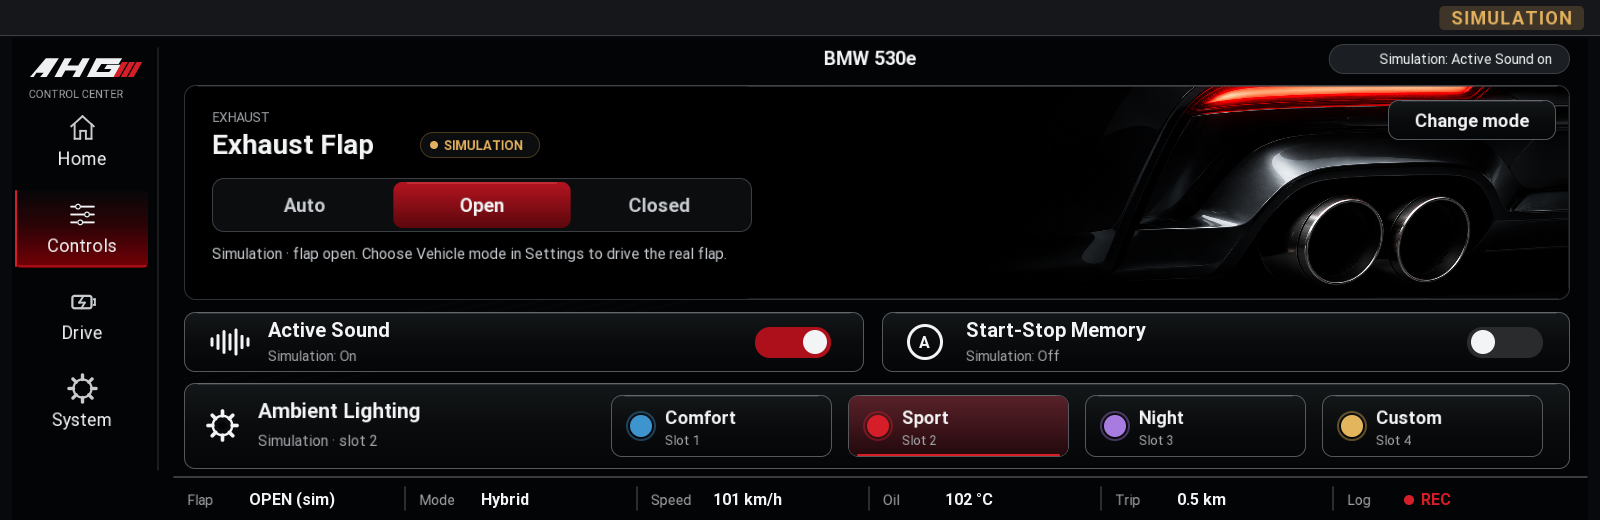
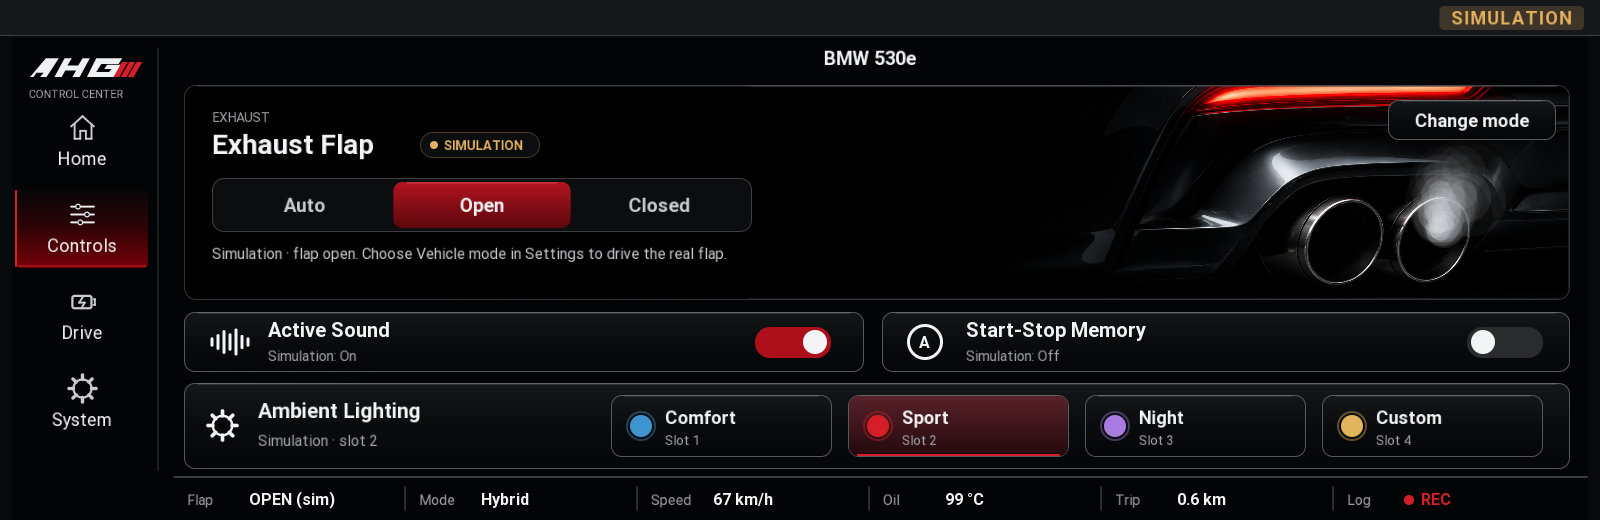
Animated exhaust smoke on the flap hero image
Open = right tailpipe, Closed = left tailpipe, Auto = light wisp from both.
Follows simulated state or the DME read-back on the car; eases between states.

Claude-Session: https://claude.ai/code/session_01Nnadr2wnsB46edB4HiEaQo

diff --git a/apps/ahg_control_center/reference-view.js b/apps/ahg_control_center/reference-view.js
@@ -76,7 +76,26 @@ function chip(cv,label,x,y,color){
 function toggle(cv,x,y,on,enabled){
     cv.roundRect(x,y,76,31,15,!enabled?'#1a1b1d':on?'#ae101b':'#292b2d');cv.circle(on?x+60:x+16,y+15,12,enabled?C.text:'#55595d');
 }
-function controls(cv,a){
+// Exhaust smoke from a tailpipe of the hero photo: puffs that billow out, rise, grow and fade.
+// A function of time only, so every frame moves it on. amt 0..1. Stays inside the hero card.
+function alphaHex(c,al){return c+('0'+Math.round(M.clamp(al,0,1)*255).toString(16)).slice(-2);}
+function rnd(n){const x=Math.sin(n*78.233+12.9898)*43758.5453;return x-Math.floor(x);}
+function smoke(cv,ox,oy,dir,reach,amt,ts,seed){
+    if(amt<0.03)return;
+    const N=18,period=2.8;
+    for(let i=0;i<N;i++){
+        const cyc=ts/period+i/N+seed,p=((cyc%1)+1)%1,k=Math.floor(cyc)*31+i; // k: a new random path every cycle
+        const x=ox+dir*(6+p*reach)+(rnd(k)-0.5)*34*p+Math.sin(ts*1.3+i*1.7)*7*p;
+        const y=oy-4+p*8-p*p*80+(rnd(k+7)-0.5)*22*p;
+        const r=7+p*(34+rnd(k+3)*14);
+        const al=amt*0.62*(1-p)*Math.min(1,p*6);
+        if(al<0.01)continue;
+        cv.circle(x,y,r,alphaHex('#c4c9cf',al*0.3));
+        cv.circle(x-r*0.12,y-r*0.1,r*0.7,alphaHex('#d9dde2',al*0.42));
+        cv.circle(x-r*0.2,y-r*0.18,r*0.4,alphaHex('#eff1f4',al*0.5));
+    }
+}
+function controls(cv,a,dt){
     const control=a.controls,sim=control.simulated,flap=control.getState('exhaust'),asd=control.getState('asd'),ss=control.getState('startStop'),ambient=control.getState('ambientHardware');
     // Exhaust flap hero: the photo fills the right of a black card, controls sit on the dark left.
     cv.roundRect(184,85,1386,215,12,'#2f3337');cv.roundRect(185,86,1384,213,11,'#000000'); // photo edge is pure black: no seam
@@ -84,6 +103,14 @@ function controls(cv,a){
     // Round the photo's right corners to match the card.
     [[1558,97,0,90],[1558,288,90,180]].forEach((k)=>{cv.arc(k[0],k[1],11,18,k[2],k[3],C.bg);cv.arc(k[0],k[1],11,12,k[2],k[3],'#2f3337');});
     cv.line(1569,97,1569,288,1,'#2f3337');cv.line(748,86,1558,86,1,'#2f3337');cv.line(748,299,1558,299,1,'#2f3337');
+    // Smoke follows the flap: Open -> right pipe, Closed -> left pipe, Auto -> a light wisp from both.
+    // On the car it follows the DME read-back, so it only shows what the DME reports.
+    const fstate=sim?flap.actual:flap.readback;
+    const target={l:fstate==='CLOSED'?1:fstate==='OPEN'?0:0.3,r:fstate==='OPEN'?1:fstate==='CLOSED'?0:0.3};
+    a.smoke=a.smoke||{l:target.l,r:target.r};
+    a.smoke.l=M.damp(a.smoke.l,target.l,(dt||0)*0.25);a.smoke.r=M.damp(a.smoke.r,target.r,(dt||0)*0.25);
+    const ts=Date.now()/1000;
+    smoke(cv,1343,236,-1,150,a.smoke.l,ts,0);smoke(cv,1431,236,0.45,70,a.smoke.r,ts,0.37);
     cv.line(198,86,1556,86,1,'#b3b8bd44');
     text(cv,'EXHAUST',212,122,13,C.muted);bold(cv,'Exhaust Flap',212,154,28);
     chip(cv,sim?'SIMULATION':control.armed?'ARMED':'DISARMED',420,132,sim?C.amber:control.armed?C.red:'#9aa0a6');
@@ -93,7 +120,7 @@ function controls(cv,a){
     const flapLine=flap.error||(sim?'Simulation · flap '+(flap.actual==='OEM'?'auto':flap.actual?flap.actual.toLowerCase():'not set')+'. Choose Vehicle mode in Settings to drive the real flap.':
         !control.armed?'Arm the session, then pick a mode.':flap.pending?'Sending request...':flap.acknowledged==null?'Armed - tap a mode or use the controller.':
         'DME '+(flap.acknowledged?'accepted':'did not accept')+' · ECU read-back: '+(flap.readback||'Unknown'));
-    wrap(flapLine,80,2).forEach((l,i)=>text(cv,l,212,259+i*19,15,flap.error?C.amber:'#c9cdd1'));
+    wrap(flapLine,92,2).forEach((l,i)=>text(cv,l,212,259+i*19,15,flap.error?C.amber:'#c9cdd1'));
     button(cv,sim?'Change mode':control.busy?'Detecting...':control.armed?'Disarm':'Arm session',1388,100,168,40,sim?()=>a.settings():()=>a.armControls(),'arm-session',control.armed);
     if(!sim&&control.armed)button(cv,'Recheck',1388,148,168,40,()=>a.recheckControls(),'recheck-link');
     // ASD + start-stop: only switchable in simulation; on a stock car they are shown as unavailable.

diff --git a/docs/RELEASE_NOTES.md b/docs/RELEASE_NOTES.md
@@ -8,6 +8,8 @@ AHG Control Center 1.2.0 - drive logging and UI cleanup.
 - Needle damping uses real frame time, up to 0.5 s; previously it was capped at 0.1 s, which made needles lag about 2.5x at 4 fps.
 - Larger text throughout. Flap status wraps instead of being cut off. Messages no longer cover the title. The status bar shows Flap/Mode/Speed/Oil/Trip/Log. The app log and signal viewer are paged. Version strings come from app.json.
 - Controls polish: the exhaust photo is now the full hero of the flap card (the line-drawn pipe icon is gone), with a segmented Auto/Open/Closed control, a status chip, colour swatches for ambient presets and plain-English messages.
+- Animated exhaust smoke on the hero photo: Open = right tailpipe, Closed = left tailpipe, Auto = a light wisp from both. On the car it follows the DME read-back (22 62FD), not the button press.
+- Flap command reviewed: byte-identical to upstream Engine Config (2F 60FD 03 03E8 open, 2F 60FD 03 2328 close, 2F 60FD 00 hand-back to DME 0x12), pinned by tests through the full Controller -> DiagLink path.
 - 38 automated checks, including drive-log CSV/summary tests.
 
 AHG Control Center 1.1.1 fixes control status, diagnostic reconnect and live-signal freshness problems found after the first physical-car test.
